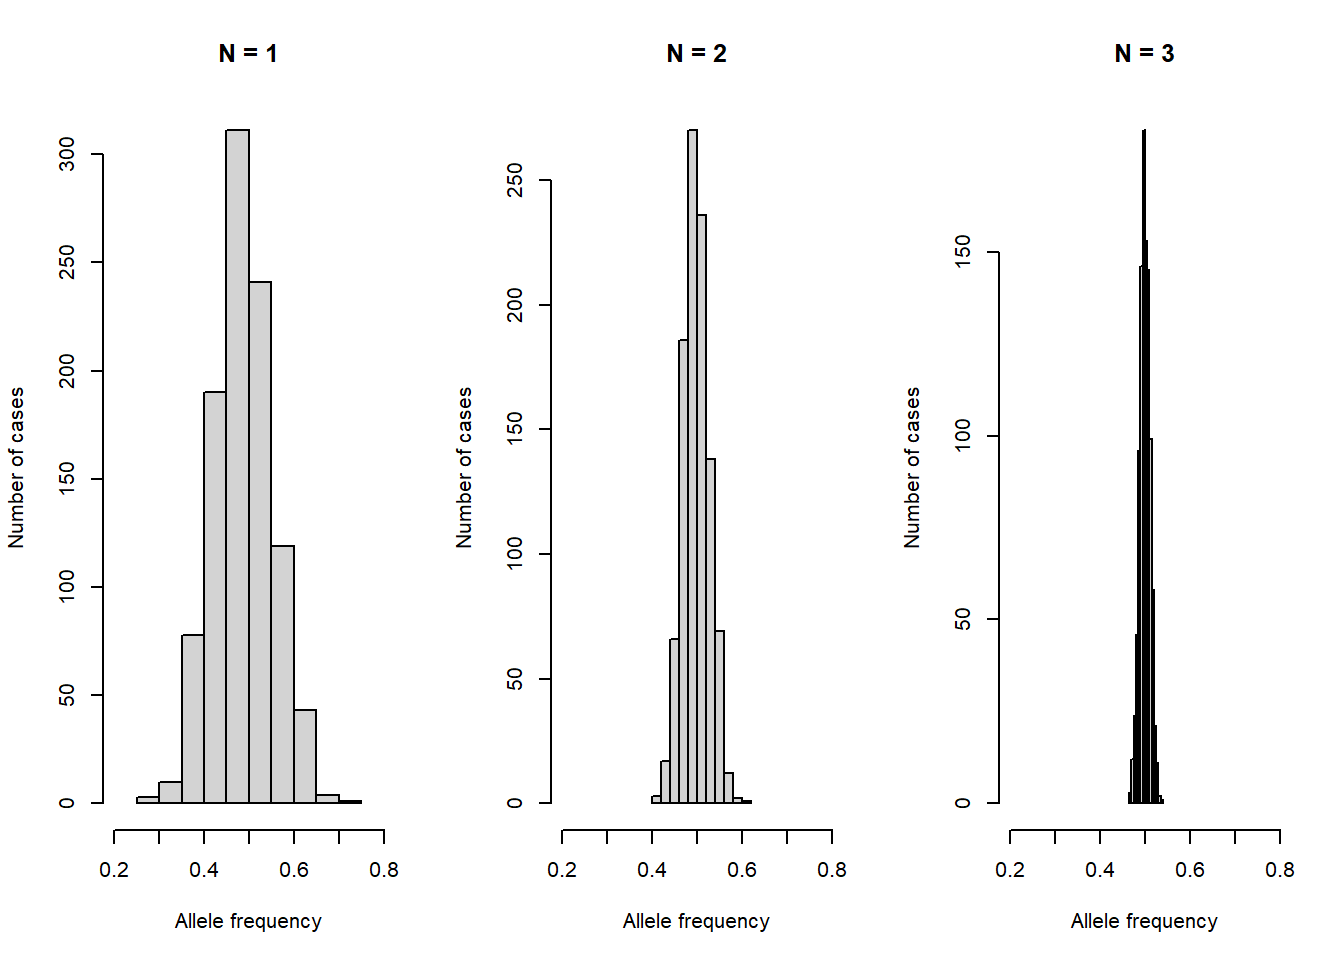
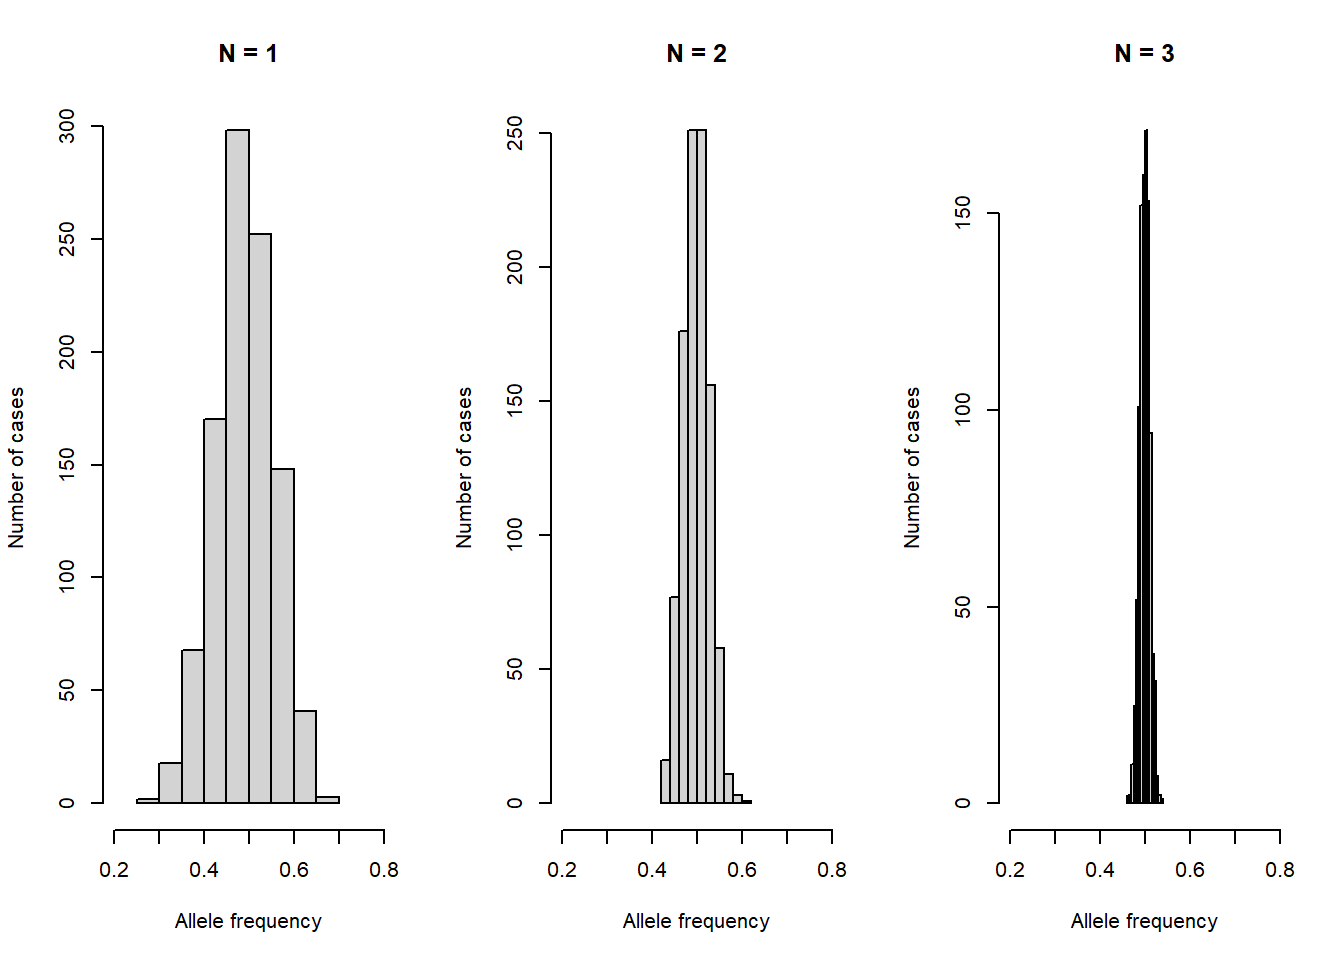
.

diff --git a/docs/index.html b/docs/index.html
@@ -235,9 +235,9 @@ window.Quarto = {
 </section>
 <section id="stepping-stones-in-r" class="level2">
 <h2 class="anchored" data-anchor-id="stepping-stones-in-r">Stepping stones in R</h2>
-<pre><code>(1) Open your existing RStudio Project for this course.
-(2) Create a new R script and save it right away. 
-(3) In the script, define key variables, and load any additional packages into the R environment. When you write code, always type in the “script” window in Rstudio. You can execute commands using command-enter or control-enter in Rstudio.</code></pre>
+<pre><code>(1) Create/Open your RStudio Project for these exercise.
+(2) Create a new R script, for each chapter and save it with chapter number. 
+(3) In the script, define key variables, and install and load any additional packages into the R environment. When you write code, always type in the “script” window in Rstudio. You can execute commands using command-enter or control-enter in Rstudio.</code></pre>
 <div class="cell" data-layout-align="center">
 <div class="sourceCode cell-code" id="cb2"><pre class="sourceCode r code-with-copy"><code class="sourceCode r"><span id="cb2-1"><a href="#cb2-1" aria-hidden="true" tabindex="-1"></a><span class="co"># 1.Load required packages-----------------------------------------------</span></span>
 <span id="cb2-2"><a href="#cb2-2" aria-hidden="true" tabindex="-1"></a><span class="fu">library</span>(utils)</span>
@@ -256,9 +256,11 @@ window.Quarto = {
 <section id="chapter-2-gaining-reliable-knowledge" class="level2">
 <h2 class="anchored" data-anchor-id="chapter-2-gaining-reliable-knowledge">Chapter 2: Gaining Reliable Knowledge</h2>
 <p><u>1.</u> A sample of 16 army cutworm moths was collected from a mountain top in Yellowstone National Park. The mean length of the sampled moths is 50 mm, and the sample variance is 4 mm.</p>
-<p>a. If the true mean length of the whole population is 20 mm and the true population variance is 15 mm, draw a target like one of those in Fig 2.1 that would depict the accuracy and precision of your sample of 16 moths relative to the true population metrics.</p>
-<p>b. What would happen to our estimated standard error (SE) if we increased the sample size? i.e., does the SE increase, decrease or stay the same?</p>
-<p>c. What would happen to the standard deviation (SD) if the sample size increased? i.e., does the SD increase, decrease or stay the same?</p>
+<ol type="a">
+<li><p>If the true mean length of the whole population is 20 mm and the true population variance is 15 mm, draw a target like one of those in Fig 2.1 that would depict the accuracy and precision of your sample of 16 moths relative to the true population metrics.</p></li>
+<li><p>What would happen to our estimated standard error (SE) if we increased the sample size? i.e., does the SE increase, decrease or stay the same?</p></li>
+<li><p>What would happen to the standard deviation (SD) if the sample size increased? i.e., does the SD increase, decrease or stay the same?</p></li>
+</ol>
 <p>🌶️ Suppose a rare orchid population is found only in a specific forest tract slated for logging. To determine if this population should be protected under the Endangered Species Act (ESA), researchers conduct a study to see if it is genetically distinct from a common, widespread orchid species found throughout the state. Let’s say the null hypothesis is: The rare orchid population is genetically identical to the common species (they are “homogeneous”). The Alternative Hypothesis is: The rare orchid population is a distinct subspecies. Because funding is limited and the flowering season is short, researchers only collect a small sample size of 10 orchids.</p>
 <p>In this context, conservation scientists and policy makers often face a ‘burden of proof’ dilemma. Why the traditional null- hypothesis significant testing may be fundamentally mismatched with the ‘precautionary principle’ required for species conservation.</p>
 <div style="background-color:beige;">
@@ -273,8 +275,8 @@ window.Quarto = {
 </section>
 <section id="chapter-3-genetic-concepts-and-tools" class="level2">
 <h2 class="anchored" data-anchor-id="chapter-3-genetic-concepts-and-tools">Chapter 3: Genetic Concepts and Tools</h2>
-<p><u>1.</u> At a single locus in an endangered finch, there are three alleles with frequencies $p$, $q$, and $r$. Calculate the expected heterozygosity under Hardy-Weinberg equilibrium.</p>
-<p><u>2.</u> A population of beetles has two alleles for color. The dominant allele is $A$ and the recessive allele is $a$. In a sample of 1,000 beetles, 160 display the recessive phenotype. Assuming the population is in Hardy–Weinberg equilibrium, what are the frequencies of the $A$ and $a$ alleles, and what proportion of the population is expected to be heterozygous? (Show your work)</p>
+<p><u>1.</u> At a single locus in an endangered finch, there are three alleles with frequencies <span class="math inline">\(p=0.364\)</span>, <span class="math inline">\(q=0.352\)</span>, and <span class="math inline">\(r=0.284\)</span>. Calculate the expected heterozygosity under Hardy-Weinberg equilibrium.</p>
+<p><u>2.</u> A population of beetles has two alleles for color. The dominant allele is <span class="math inline">\(A\)</span> and the recessive allele is <span class="math inline">\(a\)</span>. In a sample of 1,000 beetles, 160 display the recessive phenotype. Assuming the population is in Hardy–Weinberg equilibrium, what are the frequencies of the <span class="math inline">\(A\)</span> and <span class="math inline">\(a\)</span> alleles, and what proportion of the population is expected to be heterozygous?</p>
 <p><u>3.</u> Explain why mtDNA is often more useful than nuclear DNA for species identification from small or degraded samples like a single hair found in the woods.</p>
 <p><u>4.</u> Looking at the example of forensic application using microsatellite DNA in Figure 3.2, which deer, a, b, or c, did the antler tissue sample came from?</p>
 <p>🌶️ Many populations of Pacific salmon (Oncorhynchus spp.) from southern California to northern Washington are listed for protection under the US Endangered Species Act 1973 (ESA). Here we use a <a href="https://onlinelibrary.wiley.com/doi/10.1111/eva.13647">published</a> dataset on Chilkat River Chinook salmon (O. tshawytscha) in Southeast Alaska to estimate abundance using mark-recapture. This data set includes genetic data on sampled offspring and their assigned parent. First, let’s explore the data. From 682 offspring, 220 were assigned to at least one parent. There are 147 unique parent IDs.</p>
@@ -353,19 +355,25 @@ window.Quarto = {
 <section id="chapter-4-estimating-population-size-and-vital-rates" class="level2">
 <h2 class="anchored" data-anchor-id="chapter-4-estimating-population-size-and-vital-rates">Chapter 4: Estimating Population Size and Vital Rates</h2>
 <p><u>1.</u> Suppose you are studying a jaguar population using camera traps, and you are interested in estimating the population size using the Lincoln-Petersen model. During the first period of camera trapping, you uniquely identify 14 jaguars. During the next sampling period, you identify 16 jaguars, 6 of which you had previously detected.</p>
-<p>a. What is the detection probability of jaguar at camera traps?</p>
-<p>b. Estimate jaguar abundance and variance in this population?</p>
-<p>c. Use your results from the previous question to calculate the 95% confidence intervals for your estimate of abundance.</p>
-<p>d. Why is it important to include detection probability in our abundance estimate, instead of just using the count of jaguars?</p>
+<ol type="a">
+<li><p>What is the detection probability of jaguar at camera traps?</p></li>
+<li><p>Estimate jaguar abundance and variance in this population?</p></li>
+<li><p>Use your results from the previous question to calculate the 95% confidence intervals for your estimate of abundance.</p></li>
+<li><p>Why is it important to include detection probability in our abundance estimate, instead of just using the count of jaguars?</p></li>
+</ol>
 <p><u>2.</u> What happens to your estimates of detection probability and abundance if wolverines chew off their tags and lose them during a capture-recapture study?</p>
 <p><u>3.</u> In a capture-recapture model of a quail population abundance with 3 samples, what is the probability of detection history 110 in each of the following scenarios:</p>
-<p>i. the probability of detection is assumed to be constant.</p>
-<p>ii. the probability of detection is assumed to vary between sample occasions.</p>
-<p>iii. the probability of the initial detection is assumed to be different from the probability of subsequent detections.</p>
+<ol type="i">
+<li><p>the probability of detection is assumed to be constant.</p></li>
+<li><p>the probability of detection is assumed to vary between sample occasions.</p></li>
+<li><p>the probability of the initial detection is assumed to be different from the probability of subsequent detections.</p></li>
+</ol>
 <p><u>4.</u> Suppose you are studying snowshoe hare survival, using the Kaplan-Meier method. At the beginning of the study (year 1), 33 hares were GPS-collared. When checked at year 2, you found 2 hares dead and lost the signal of 1 collared hare. You collared 5 new hares in year 2.</p>
-<p>a. What is the probability of surviving the first year?</p>
-<p>b. What is the probability of surviving the second year?</p>
-<p>c. By using this method to estimate survival, what assumptions are you making?</p>
+<ol type="a">
+<li><p>What is the probability of surviving the first year?</p></li>
+<li><p>What is the probability of surviving the second year?</p></li>
+<li><p>By using this method to estimate survival, what assumptions are you making?</p></li>
+</ol>
 <p>🌶️ The the Lincoln-Peterson method is used to estimate the abundance of a closed population using mark-recapture data. Using this method, animals do not need to be uniquely marked to estimate abundance. We learned that: <span class="math inline">\(\hat{N}\)</span> = <span class="math inline">\(\frac{n_1 n_2}{m_2}\)</span>, where <span class="math inline">\(n_1\)</span> is the number of animals caught and marked in the first sample, <span class="math inline">\(n_2\)</span> is the number of animals caught in the second sample, and <span class="math inline">\(m_2\)</span> is the number of animals caught in both samples.</p>
 <p>We could use R to estimate abundance using the Lincoln-Peterson estimator.</p>
 <p>First, let’s create three objects n1, n2, and m2 and store the sampling data. We captured 44 individuals on the first sample occasion, 32 individuals on the second sample occasion, and 15 individuals were captured in both sample occasions.</p>
@@ -422,10 +430,12 @@ window.Quarto = {
 <section id="chapter-5-exponential-or-geometric-change" class="level2">
 <h2 class="anchored" data-anchor-id="chapter-5-exponential-or-geometric-change">Chapter 5: Exponential (or Geometric) Change</h2>
 <p><u>1.</u> Use the discrete population growth model to find the abundance of a population last year if the abundance is 2,000 this year and the geometric growth rate is 0.5.</p>
-<p>a. By what percentage is the population increasing or decreasing each year?</p>
-<p>b. Starting from the population size this year, what will the size of the population be if it continues to grow at the same rate for a total of 4 years?</p>
-<p>c. What is the population’s instantaneous growth rate if it takes 2 years to double in size?</p>
-<p>d. Based on the instantaneous growth rate, is this population stable, growing, or shrinking?</p>
+<ol type="a">
+<li><p>By what percentage is the population increasing or decreasing each year?</p></li>
+<li><p>Starting from the population size this year, what will the size of the population be if it continues to grow at the same rate for a total of 4 years?</p></li>
+<li><p>What is the population’s instantaneous growth rate if it takes 2 years to double in size?</p></li>
+<li><p>Based on the instantaneous growth rate, is this population stable, growing, or shrinking?</p></li>
+</ol>
 <p><u>2.</u> Why is the geometric mean a better descriptor of a fluctuating population’s long-term growth than the arithmetic mean?</p>
 <p><u>3.</u> A population of 10 individuals has an expected survival rate of 70%. Explain why the realized survival rate in any given year is unlikely to be exactly 70% due to demographic stochasticity.</p>
 <p>🌶️ One non-intuitive idea that emerged from Chapter 5 in the text is that (under many conditions) the average growth rate of a population might be much higher than the most likely population trajectory. That is, when conditions are variable, population dynamics are governed not by the arithmetic mean, but rather by the geometric mean. Let’s see how that plays out.</p>
@@ -492,12 +502,11 @@ window.Quarto = {
 <div style="background-color:beige;">
 <p>🔥<strong>Questions:</strong></p>
 <ol type="1">
-<li>With an initial abundance of 50 in year 2020, project abundance for years 2025 and 2027, assuming situations (a) and (b) and then visualize the two projections of population abundnace.</li>
-</ol>
-<!-- -->
+<li><p>With an initial abundance of 50 in year 2020, project abundance for years 2025 and 2027, assuming situations (a) and (b) and then visualize the two projections of population abundnace.</p>
 <ol type="a">
-<li>growth is deterministic (<span class="math inline">\(\lambda_y\)</span> = 1.05) over the years.</li>
-<li>growth is stochastic and fluctuates between 1.55 and 0.55 (<span class="math inline">\(\lambda_{2020}\)</span> = 1.05, <span class="math inline">\(\lambda_{2021}\)</span> = 0.55, <span class="math inline">\(\lambda_{2022}\)</span> = 1.05, <span class="math inline">\(\lambda_{2023}\)</span> = 0.55, etc).</li>
+<li><p>growth is deterministic (<span class="math inline">\(\lambda_y\)</span> = 1.05) over the years.</p></li>
+<li><p>growth is stochastic and fluctuates between 1.55 and 0.55 (<span class="math inline">\(\lambda_{2020}\)</span> = 1.05, <span class="math inline">\(\lambda_{2021}\)</span> = 0.55, <span class="math inline">\(\lambda_{2022}\)</span> = 1.05, <span class="math inline">\(\lambda_{2023}\)</span> = 0.55, etc).</p></li>
+</ol></li>
 </ol>
 </div>
 <p><br></p>
@@ -530,7 +539,13 @@ window.Quarto = {
 </section>
 <section id="chapter-7-density-dependent-population-change" class="level2">
 <h2 class="anchored" data-anchor-id="chapter-7-density-dependent-population-change">Chapter 7: Density-Dependent Population Change</h2>
-<p><u>1.</u> Draw a graph showing how population size varies over time for a population following logistic growth. Label your axes appropriately and use this graph to answer the following questions. a. Where is the population growing the fastest? Circle that region and label it with “A”. b. Where is population growth limited by the number of individuals? Circle that region and label it with “B”. c.&nbsp;Where is the population limited by small per-capita growth rate? Circle that region and label it “C”. d.&nbsp;For the region of the graph you labelled “C,” what might be causing the low per-capita growth rate?</p>
+<p><u>1.</u> Draw a graph showing how population size varies over time for a population following logistic growth. Label your axes appropriately and use this graph to answer the following questions.</p>
+<ol type="a">
+<li><p>Where is the population growing the fastest? Circle that region and label it with “A”.</p></li>
+<li><p>Where is population growth limited by the number of individuals? Circle that region and label it with “B”.</p></li>
+<li><p>Where is the population limited by small per-capita growth rate? Circle that region and label it “C”.</p></li>
+<li><p>For the region of the graph you labelled “C,” what might be causing the low per-capita growth rate?</p></li>
+</ol>
 <p><u>2.</u> What is a strong Allee effect? Explain why a population might decline toward extinction even if $N &gt; 2$.</p>
 <p><u>3.</u> Draw two graphs showing how per capita mortality rate could vary with population size. If birth rate is constant in both graphs, indicate the carrying capacity, positive population growth and negative or positive density dependence on each graph.</p>
 <p>🌶️ Although we have emphasized that logistic growth is just one special form of negative density dependence, it turns out that wolves reintroduced into the northern rockies exhibit negative density dependence that can be reasonably modeled using logistic growth. Ever since wolves were introduced into Yellowstone and Central Idaho, the USFWS has kept a pretty good tab on total wolf numbers in the US Northern Rockies. For this exercise we will use these data from 1995-2015 (representing the total wolf count in Yellowstone, Central Idaho and NW Montana).</p>
@@ -698,10 +713,12 @@ F-statistic: 62.09 on 1 and 18 DF,  p-value: 3.039e-07</code></pre>
 <p><strong>🔥Questions:</strong></p>
 <ol type="1">
 <li><p>With different values of <span class="math inline">\(\rho_0\)</span> (between about 1 and 3) in the discrete logistic growth equation estimate abundance to achieve examples of:</p>
-<p>a. damped oscillations</p>
-<p>b. two-point stable limit cycles</p>
-<p>c. four-point stable limit cycles</p>
-<p>d. chaos</p></li>
+<ol type="a">
+<li><p>damped oscillations</p></li>
+<li><p>two-point stable limit cycles</p></li>
+<li><p>four-point stable limit cycles</p></li>
+<li><p>chaos</p></li>
+</ol></li>
 </ol>
 <!-- -->
 <ol start="2" type="1">
@@ -715,7 +732,7 @@ F-statistic: 62.09 on 1 and 18 DF,  p-value: 3.039e-07</code></pre>
 <p><u>1.</u> Calculate the survival probability of a population of mule deer with a 20% predation mortality rate and a 30% mortality rate from other causes when: a. predation mortality is fully additive b. predation mortality is fully compensatory</p>
 <p><u>2.</u> Suppose you’re a manager tasked with protection of a population of rare birds called deer grouse. There’s a native hawk species that hunts the deer grouse. Biologists recently discovered an invasive rodent species called the dusky mouse that eats the eggs of the deer grouse. The dusky mouse population is growing quickly. What do you need to consider before taking action to protect the deer grouse from the invasive dusky mouse?</p>
 <p><u>3.</u> If you’re an elk in Yellowstone National Park, what would your survival strategy be if you know that wolves hunt you in valley bottoms during the day and pumas hunt you in rocky terrain at night? Name a potential fitness cost of your strategy. What term describes the effect of the predators on your behavior?</p>
-<p><u>4.</u> Which panel in figure 8.2 matches the following predator-prey interaction where lynx populations in a boreal forest increase in abundance as snowshoe hare populations increase. The rate of that increase slows as the hare population gets bigger. Because the snowshoe hares are masters of camouflage, Lynx need to spend more time searching for hares to pursue when hare populations are low.</p>
+<p><u>4.</u> Which panel in figure 8.2 matches the following predator-prey interaction where lynx populations in a boreal forest increase in abundance as snowshoe hare populations increase. The rate of that increase slows as the hare population gets bigger. Because the snowshoe hares are masters of camouflage, lynx needs to spend more time searching for hares to pursue when hare populations are low.</p>
 <p><u>5.</u> Draw a graph of predation rate (% prey killed) against prey abundance. Indicate the area of positive or negative density dependence on this graph.</p>
 <p>🌶️Management of critically endangered species may pose considerable scientific and ethical dilemmas. Channel Islands are inhabited by an endemic, carnivore species, the island fox (Urocyon litteralis). These islands are also populated by introduced feral pigs (Sus scrofa). The presence of pigs (and the loss of bald eagles) enabled golden eagles (Aquila chrysaetos) to colonize the islands in early 1990’s. The eagles prey mainly on pigs and foxes are their secondary, alternative prey. Canine distemper became an issue in the late 1990s. The species was listed as endangered, and things looked bleak for island fox. Science-based conservation recommendations were badly needed, and time was short.</p>
 <p>The rate of predation by a predator population is determined by two attributes of the predator’s response to changes in prey density: functional response and numerical response. The numerical response is simply how predator number changes as prey abundance changes. The functional response relates a single predator’s prey consumption rate to prey population density.</p>
@@ -799,10 +816,13 @@ F-statistic: 62.09 on 1 and 18 DF,  p-value: 3.039e-07</code></pre>
 <h2 class="anchored" data-anchor-id="chapter-9-genetic-variation-and-fitness">Chapter 9: Genetic Variation and Fitness</h2>
 <p><u>1.</u> After how many generations of genetic drift in an isolated population does the inbreeding coefficient for a subpopulation relative to the total population reach 0.01 if the effective population size is 50?</p>
 <p><u>2.</u> What is the inbreeding coefficient for a subpopulation relative to the total population of an isolated species experiencing genetic drift after 2 generations if the effective population size is 50?</p>
-<p><u>3.</u> Suppose you are studying a subpopulation of bighorn sheep within a larger metapopulation. You estimate FST of 0.7. a. What does that tell you about genetic variation in the subpopulation? b. You also found that juvenile survival has decreased by 40% in the subpopulation, although you did not find a significant change in the mean population growth rate. What does this suggest about inbreeding depression in the subpopulation?</p>
+<p><u>3.</u> Suppose you are studying a subpopulation of bighorn sheep within a larger metapopulation. You estimate FST of 0.7.</p>
+<ol type="a">
+<li><p>What does that tell you about genetic variation in the subpopulation?</p></li>
+<li><p>You also found that juvenile survival has decreased by 40% in the subpopulation, although you did not find a significant change in the mean population growth rate. What does this suggest about inbreeding depression in the subpopulation?</p></li>
+</ol>
 <p><u>4.</u> Why did the founder effect not have a significant negative impact on the genetic variation of the Yellowstone wolf population after the first ten years if only 31 individuals were translocated to the park?</p>
-<p>🌶️Suppose individuals in a wildlife population are found to suffer a fatal genetic disorder that has a genetic basis, recessive inheritance, and shows up in 1 out of every 400 individuals.</p>
-<p>We’ll assume only 2 alleles and refer to the dominant (normal) allele as F, and to the fatal disorder disease allele as f.&nbsp;0.25 percent of the population suffer from the disease. What are the allele frequencies? What percent of the population is a non-affected “carrier” of the allele or a homozygous FF?</p>
+<p>🌶️Suppose individuals in a wildlife population are found to suffer a fatal genetic disorder that has a genetic basis, recessive inheritance, and shows up in 1 out of every 400 individuals. We’ll assume only 2 alleles and refer to the dominant (normal) allele as F, and to the fatal disorder disease allele as f.&nbsp;0.25 percent of the population suffer from the disease. What are the allele frequencies? What percent of the population is a non-affected “carrier” of the allele or a homozygous FF?</p>
 <div class="cell" data-layout-align="center">
 <div class="sourceCode cell-code" id="cb33"><pre class="sourceCode r code-with-copy"><code class="sourceCode r"><span id="cb33-1"><a href="#cb33-1" aria-hidden="true" tabindex="-1"></a>percent <span class="ot">&lt;-</span>   <span class="dv">1</span> <span class="sc">/</span> <span class="dv">400</span> <span class="sc">*</span> <span class="dv">100</span> </span>
 <span id="cb33-2"><a href="#cb33-2" aria-hidden="true" tabindex="-1"></a></span>
@@ -825,7 +845,7 @@ F-statistic: 62.09 on 1 and 18 DF,  p-value: 3.039e-07</code></pre>
 <span id="cb34-2"><a href="#cb34-2" aria-hidden="true" tabindex="-1"></a>p <span class="ot">&lt;-</span>  <span class="fl">0.5</span>                                             <span class="co"># allele frequency</span></span>
 <span id="cb34-3"><a href="#cb34-3" aria-hidden="true" tabindex="-1"></a><span class="fu">rbinom</span>(<span class="dv">1</span>, <span class="at">size =</span> <span class="dv">2</span> <span class="sc">*</span> n[<span class="dv">1</span>], <span class="at">prob =</span> p) <span class="sc">/</span> (<span class="dv">2</span> <span class="sc">*</span> n[<span class="dv">1</span>])     <span class="co"># allele frequency in the next generation </span></span></code><button title="Copy to Clipboard" class="code-copy-button"><i class="bi"></i></button></pre></div>
 <div class="cell-output cell-output-stdout">
-<pre><code>[1] 0.5666667</code></pre>
+<pre><code>[1] 0.4833333</code></pre>
 </div>
 <div class="sourceCode cell-code" id="cb36"><pre class="sourceCode r code-with-copy"><code class="sourceCode r"><span id="cb36-1"><a href="#cb36-1" aria-hidden="true" tabindex="-1"></a>t <span class="ot">&lt;-</span> <span class="dv">1000</span>                                             <span class="co"># repeat sampling 1000 times</span></span>
 <span id="cb36-2"><a href="#cb36-2" aria-hidden="true" tabindex="-1"></a>freq <span class="ot">&lt;-</span> <span class="fu">list</span>()</span>
@@ -881,18 +901,17 @@ F-statistic: 62.09 on 1 and 18 DF,  p-value: 3.039e-07</code></pre>
 <div class="sourceCode cell-code" id="cb38"><pre class="sourceCode r code-with-copy"><code class="sourceCode r"><span id="cb38-1"><a href="#cb38-1" aria-hidden="true" tabindex="-1"></a><span class="co"># Population 1 (Nature reserve)</span></span>
 <span id="cb38-2"><a href="#cb38-2" aria-hidden="true" tabindex="-1"></a>b1 <span class="ot">&lt;-</span> <span class="fl">0.40</span></span>
 <span id="cb38-3"><a href="#cb38-3" aria-hidden="true" tabindex="-1"></a>d1 <span class="ot">&lt;-</span> <span class="fl">0.25</span></span>
-<span id="cb38-4"><a href="#cb38-4" aria-hidden="true" tabindex="-1"></a></span>
-<span id="cb38-5"><a href="#cb38-5" aria-hidden="true" tabindex="-1"></a>R1 <span class="ot">&lt;-</span> <span class="dv">1</span> <span class="sc">+</span> b1 <span class="sc">-</span> d1  </span>
-<span id="cb38-6"><a href="#cb38-6" aria-hidden="true" tabindex="-1"></a></span>
-<span id="cb38-7"><a href="#cb38-7" aria-hidden="true" tabindex="-1"></a><span class="co"># Population 2 (Fragmented forest)</span></span>
-<span id="cb38-8"><a href="#cb38-8" aria-hidden="true" tabindex="-1"></a>b2 <span class="ot">&lt;-</span> <span class="fl">0.15</span></span>
-<span id="cb38-9"><a href="#cb38-9" aria-hidden="true" tabindex="-1"></a>d2 <span class="ot">&lt;-</span> <span class="fl">0.20</span></span>
-<span id="cb38-10"><a href="#cb38-10" aria-hidden="true" tabindex="-1"></a>R2 <span class="ot">&lt;-</span> <span class="dv">1</span> <span class="sc">+</span> b2 <span class="sc">-</span> d2  </span>
-<span id="cb38-11"><a href="#cb38-11" aria-hidden="true" tabindex="-1"></a></span>
-<span id="cb38-12"><a href="#cb38-12" aria-hidden="true" tabindex="-1"></a><span class="co"># Population 3 (Solar Farm: ecological trap)</span></span>
-<span id="cb38-13"><a href="#cb38-13" aria-hidden="true" tabindex="-1"></a>b3 <span class="ot">&lt;-</span> <span class="fl">0.05</span></span>
-<span id="cb38-14"><a href="#cb38-14" aria-hidden="true" tabindex="-1"></a>d3 <span class="ot">&lt;-</span> <span class="fl">0.50</span></span>
-<span id="cb38-15"><a href="#cb38-15" aria-hidden="true" tabindex="-1"></a>R3 <span class="ot">&lt;-</span> <span class="dv">1</span> <span class="sc">+</span> b3 <span class="sc">-</span> d3  </span></code><button title="Copy to Clipboard" class="code-copy-button"><i class="bi"></i></button></pre></div>
+<span id="cb38-4"><a href="#cb38-4" aria-hidden="true" tabindex="-1"></a>R1 <span class="ot">&lt;-</span> <span class="dv">1</span> <span class="sc">+</span> b1 <span class="sc">-</span> d1  </span>
+<span id="cb38-5"><a href="#cb38-5" aria-hidden="true" tabindex="-1"></a></span>
+<span id="cb38-6"><a href="#cb38-6" aria-hidden="true" tabindex="-1"></a><span class="co"># Population 2 (Fragmented forest)</span></span>
+<span id="cb38-7"><a href="#cb38-7" aria-hidden="true" tabindex="-1"></a>b2 <span class="ot">&lt;-</span> <span class="fl">0.15</span></span>
+<span id="cb38-8"><a href="#cb38-8" aria-hidden="true" tabindex="-1"></a>d2 <span class="ot">&lt;-</span> <span class="fl">0.20</span></span>
+<span id="cb38-9"><a href="#cb38-9" aria-hidden="true" tabindex="-1"></a>R2 <span class="ot">&lt;-</span> <span class="dv">1</span> <span class="sc">+</span> b2 <span class="sc">-</span> d2  </span>
+<span id="cb38-10"><a href="#cb38-10" aria-hidden="true" tabindex="-1"></a></span>
+<span id="cb38-11"><a href="#cb38-11" aria-hidden="true" tabindex="-1"></a><span class="co"># Population 3 (Solar Farm: ecological trap)</span></span>
+<span id="cb38-12"><a href="#cb38-12" aria-hidden="true" tabindex="-1"></a>b3 <span class="ot">&lt;-</span> <span class="fl">0.05</span></span>
+<span id="cb38-13"><a href="#cb38-13" aria-hidden="true" tabindex="-1"></a>d3 <span class="ot">&lt;-</span> <span class="fl">0.50</span></span>
+<span id="cb38-14"><a href="#cb38-14" aria-hidden="true" tabindex="-1"></a>R3 <span class="ot">&lt;-</span> <span class="dv">1</span> <span class="sc">+</span> b3 <span class="sc">-</span> d3  </span></code><button title="Copy to Clipboard" class="code-copy-button"><i class="bi"></i></button></pre></div>
 </div>
 <pre><code></code></pre>
 <p>Moving from population j to population i can be represented by <span class="math inline">\(D_{ij}\)</span> below.</p>
@@ -938,8 +957,10 @@ F-statistic: 62.09 on 1 and 18 DF,  p-value: 3.039e-07</code></pre>
 <h2 class="anchored" data-anchor-id="chapter-11-population-responses-to-stressors">Chapter 11: Population Responses to Stressors</h2>
 <p><u>1.</u> Define the three responses available to a population of Arctic foxes facing a warming climate and explain which of these options constitute resilience.</p>
 <p><u>2.</u> Snowshoe hares initiate their seasonal color molt based on photoperiod (day length), but snowmelt is occurring earlier due to climate change.</p>
-<p>a. Is this a form of plastic rescue?</p>
-<p>b. What is the consequence for survival?</p>
+<ol type="a">
+<li><p>Is this a form of plastic rescue?</p></li>
+<li><p>What is the consequence for survival?</p></li>
+</ol>
 <p><u>3.</u> Draw a hypothetical reaction norm graph depicting phenotypic plasticity for egg-laying dates in great tits against mean spring temperature. Label the axis that indicates the “Adjust” response.</p>
 <p>🌶️</p>
 <hr>
@@ -1028,17 +1049,21 @@ F-statistic: 62.09 on 1 and 18 DF,  p-value: 3.039e-07</code></pre>
 <section id="chapter-13-sustainable-harvest" class="level2">
 <h2 class="anchored" data-anchor-id="chapter-13-sustainable-harvest">Chapter 13: Sustainable Harvest</h2>
 <p><u>1.</u> You are studying greater sage-grouse, and you want to know if hunting mortality is compensatory or additive.</p>
-<p>a. If harvest were completely additive, what annual survival be?</p>
-<p>b. If harvest were completely compensatory, what would annual survival be?</p>
-<p>c. Say you estimate that the coefficient for hunting mortality is 0.25 (95% CI: 0.13-0.37). What does this suggest about the effect of hunting on annual survival?</p>
+<ol type="a">
+<li><p>If harvest were completely additive, what annual survival be?</p></li>
+<li><p>If harvest were completely compensatory, what would annual survival be?</p></li>
+<li><p>Say you estimate that the coefficient for hunting mortality is 0.25 (95% CI: 0.13-0.37). What does this suggest about the effect of hunting on annual survival?</p></li>
+</ol>
 <p><u>2.</u> Why is a fixed-quota harvest (taking exactly 40 animals/year) riskier than a fixed-effort harvest in an unpredictable environment.</p>
 <p><u>3.</u> Intense trophy hunting on bighorn sheep removes the fastest-growing rams with the largest horns.</p>
-<p>a. What is the likely evolutionary response?</p>
-<p>b. Why is this called a “debt”?</p>
+<ol type="a">
+<li><p>What is the likely evolutionary response?</p></li>
+<li><p>Why is this called a “debt”?</p></li>
+</ol>
 <p>🌶️ For the structured mule deer population with information below, draw a two-sex life cycle diagram and write out the matrix and projection model with harvest. We can tell sexes of adults only. Adult females and males are harvested at different rates. Vital rates measured in absence of harvest:</p>
 <ul>
 <li>birth rate, b</li>
-<li>survival of juvenile to adult sj</li>
+<li>survival of juvenile to adult, sj</li>
 <li>survival of adult females, sf</li>
 <li>survival of adult males, sm</li>
 <li>survival of babies until seen as juveniles, s0</li>